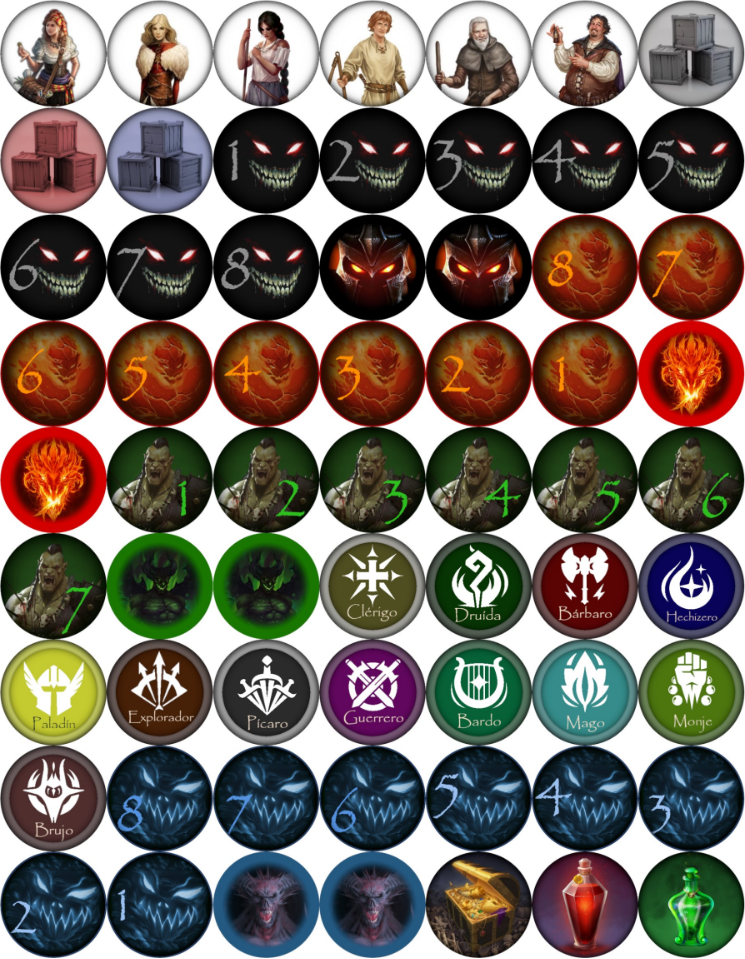
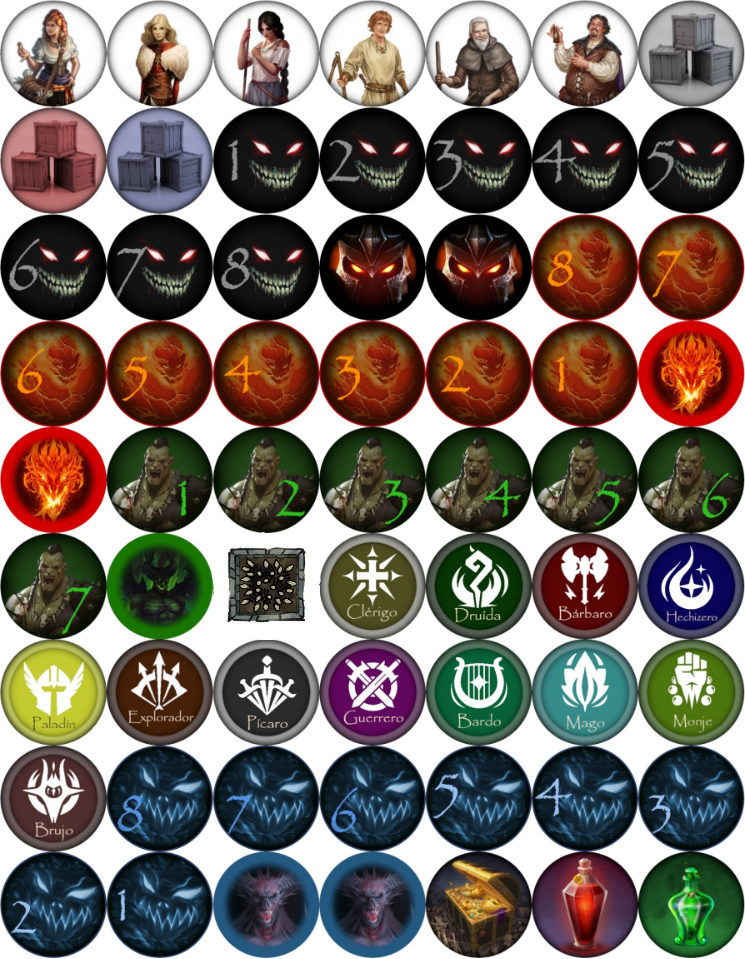
ready for play

Changed region(s): [[0.2779, 0.5443, 0.4322, 0.6653]]

diff --git a/PbtaWorldRazonCommonComponents/SmoothWhiteBoard.razor.css b/PbtaWorldRazonCommonComponents/SmoothWhiteBoard.razor.css
@@ -300,7 +300,7 @@
 
 .Selected {
     opacity: 1;
-    position: relative;
+    /*position: relative;*/
 }
 
 .NotSelected {

diff --git a/PbtaWorldRazonCommonComponents/WhiteBoardService.cs b/PbtaWorldRazonCommonComponents/WhiteBoardService.cs
@@ -15,16 +15,23 @@ public class WhiteBoardService
 	public List<Prop> Props = new();
 	public static IGameController? Game;
 
-	private string _mapurl = string.Empty;
 
-	public string MapImageURL
+
+	string RootBattleMapsURL = "./wwwroot/imgs/VTT/BattleMaps/";
+	public string MapImagePATH => RootBattleMapsURL + MapImageName;
+	public string MapImageURL => "/imgs/VTT/BattleMaps/" + MapImageName;
+	public string WallsJasonFile => RootBattleMapsURL + MapImageName.Substring(0, MapImageName.IndexOf('.'))+".json";
+
+
+	private string _mapImageName;
+	public string MapImageName
 	{
-		get { return _mapurl; }
-		set { 
-			_mapurl = value;
-			LoadMap(_mapurl);
+		get { return _mapImageName; }
+		set { _mapImageName = value;
+			LoadMap(_mapImageName);
 		}
 	}
+
 
 	public int BattleMapWidth = 0;
 	public int BattleMapHeight = 0;
@@ -70,20 +77,23 @@ public class WhiteBoardService
 		Update();
 	}
 
-	public void LoadMap(string mapName)
+
+	public async Task LoadMap(string mapName)
 	{
-		var path = "./wwwroot/imgs/VTT/BattleMaps/" + mapName;
-		using (var image = Image.Load(path))
+		using (var image = Image.Load(MapImagePATH))
 		{
 			BattleMapWidth = image.Width; 
 			BattleMapHeight = image.Height;
 		}
+
+		await LoadJson();
+
 	}
 
 	public List<string> GetMaps()
 	{
-		var rest = from file in Directory.GetFiles("./wwwroot/imgs/VTT/BattleMaps")
-			   select file.Substring(file.LastIndexOf("\\")+1);
+		var rest =	from file in Directory.GetFiles(RootBattleMapsURL).Where(x=>x.Contains(".png"))
+					select file.Substring(file.LastIndexOf("/")+1);
 		return rest.ToList();
 	}
 
@@ -136,9 +146,7 @@ public class WhiteBoardService
 	{
 		try
 		{
-			var Filename = "TestFile";
-			string newFilePath = $"./wwwroot/{Filename}.json";
-			var encoded = await File.ReadAllTextAsync(newFilePath);
+			var encoded = await File.ReadAllTextAsync(WallsJasonFile);
 
 			Walls = JsonSerializer.Deserialize<List<DrawnLine>>(encoded);
 			Update();
@@ -147,6 +155,7 @@ public class WhiteBoardService
 		catch (Exception ex)
 		{
 			Console.WriteLine(ex.Message);
+			Walls.Clear();
 		}
 
 		Update();
@@ -155,9 +164,7 @@ public class WhiteBoardService
 	{
 		try
 		{
-			var Filename = "TestFile";
-			string newFilePath = $"./wwwroot/{Filename}.json";
-			await File.WriteAllTextAsync(newFilePath, JsonSerializer.Serialize(Walls));
+			await File.WriteAllTextAsync(WallsJasonFile, JsonSerializer.Serialize(Walls));
 		}
 		catch (Exception ex)
 		{
@@ -170,11 +177,6 @@ public class WhiteBoardService
 
 	public async Task<Token> StartForPlayer(PbtACharacter character)
 	{
-		if (Walls.Count == 0)
-		{
-			await LoadJson();
-		}
-
 		var TheToken = Tokens.Find(x => x.Guid == character.ID);
 		if (TheToken == null)
 		{
@@ -182,9 +184,7 @@ public class WhiteBoardService
 			Tokens.Add(TheToken);
 			TheToken.StoreChangesInCharacterSheet += StoreChangesInCharacterSheet;
 			character.UpdateVTT += Update;
-		}
-
-		
+		}	
 
 		return TheToken;
 	}

diff --git a/PbtaWorldRazonCommonComponents/VTTService.cs b/PbtaWorldRazonCommonComponents/VTTService.cs
@@ -434,8 +434,8 @@ public class Token
 				VTTTokens.Green5 => -SizePixels * 5,
 				VTTTokens.Green6 => -SizePixels * 6,
 				VTTTokens.Green7 => -SizePixels * 0,
-				VTTTokens.Green8 => -SizePixels * 1,
-				VTTTokens.GreenBoss => -SizePixels * 2,
+				VTTTokens.SpikeTrap => -SizePixels * 2,
+				VTTTokens.GreenBoss => -SizePixels * 1,
 				VTTTokens.Cleric => -SizePixels * 3,
 				VTTTokens.Druid => -SizePixels * 4,
 				VTTTokens.Barbarian => -SizePixels * 5,
@@ -507,7 +507,7 @@ public class Token
 				VTTTokens.Green5 => -SizePixels * 4,
 				VTTTokens.Green6 => -SizePixels * 4,
 				VTTTokens.Green7 => -SizePixels * 5,
-				VTTTokens.Green8 => -SizePixels * 5,
+				VTTTokens.SpikeTrap => -SizePixels * 5,
 				VTTTokens.GreenBoss => -SizePixels * 5,
 				VTTTokens.Cleric => -SizePixels * 5,
 				VTTTokens.Druid => -SizePixels * 5,

diff --git a/PbtALib/Enums.cs b/PbtALib/Enums.cs
@@ -33,7 +33,7 @@ public enum VTTTokens
 	Black1, Black2,Black3, Black4,Black5, Black6, Black7, Black8, BlackBoss,
 	Red1, Red2, Red3, Red4, Red5, Red6,Red7,Red8,RedBoss,
 	Blue1, Blue2, Blue3, Blue4, Blue5, Blue6, Blue7, Blue8, BlueBoss,
-	Green1, Green2, Green3, Green4, Green5, Green6,Green7, Green8,GreenBoss,
+	Green1, Green2, Green3, Green4, Green5, Green6,Green7, SpikeTrap,GreenBoss,
 	Barbarian, Bard, Cleric, Druid, Ranger, Fighter, Thief, Mage, Paladin, Wielder,
 	Gold, RedPotion,GreenPotion, FogOfWar, Bultos, Bush1, Bush2, Bush3, Bush4, BushMini1, BushMini2, BushMini3, Firepit,
 	FirepitOff, Outcrop, Rock1, Rock2, Rock3, Rock4, Stomp1, Stomp2, Tent, Tent2, Tent3,
